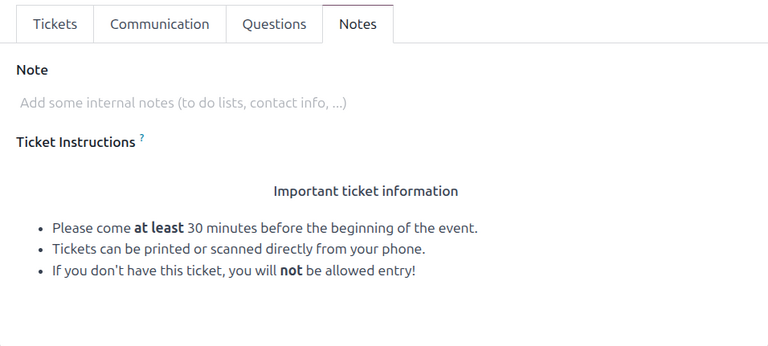
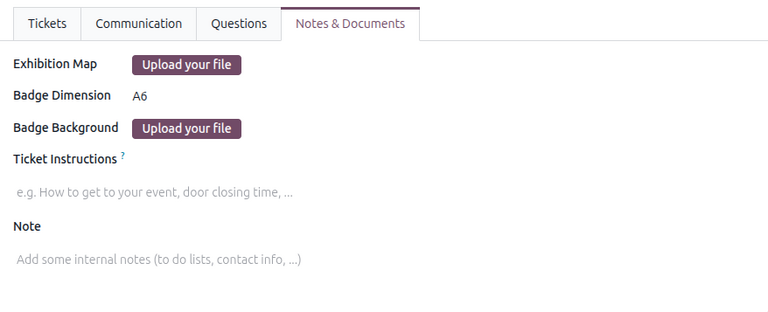
[IMP] Events: Update Create events page 19.0
X-original-commit: eda678af10adbab454cf75f3a86a5a1a9b6bd0a7

diff --git a/content/applications/marketing/events/event_setup/create_events.rst b/content/applications/marketing/events/event_setup/create_events.rst
@@ -25,18 +25,18 @@ Each event card displays the name of the event, its scheduled date, location, nu
 manager.
 
 The default stages in the :guilabel:`Kanban` view are :guilabel:`New`, :guilabel:`Booked`,
-:guilabel:`Announced`, :guilabel:`Ended`, and :guilabel:`Cancelled`. The cards can be
-dragged-and-dropped into any stage in the pipeline.
+:guilabel:`Announced`, and :guilabel:`Ended`. The cards can be dragged and dropped into any stage in
+the pipeline.
 
 .. note::
-   The :guilabel:`Ended` and :guilabel:`Cancelled` stages are folded by default and located to the
-   right of the other stages.
+   The :guilabel:`Ended` stage is folded by default and located to the right of the other stages.
 
 .. image:: create_events/kanban-dashboard.png
    :alt: Overview of Events dashboard with the Kanban view in Odoo Events.
 
 To add a new stage, click the :icon:`fa-plus` :guilabel:`Add Stage` button on the right, enter a
-name for the stage, then click :guilabel:`Add`.
+name for the stage, then click :icon:`fa-check` :guilabel:`(Add)` to add the stage or
+:icon:`fa-times` :guilabel:`(Remove)` to cancel.
 
 .. _events/event-form:
 
@@ -54,7 +54,7 @@ dashboard to open up a new event form.
 At the top of the event form are a series of smart buttons related to various event metrics. These
 auto-populate with data once attendees begin to register, when booths and sponsors sign on for the
 event, when the event takes place, and so on. These smart buttons can be clicked to navigate to the
-event's related pages to modify any details and/or perform any desired actions.
+event's related pages to modify any details and perform any desired actions.
 
 Beneath the smart buttons is the event form, which contains various fields and clickable tabs to
 configure the necessary details of the event.
@@ -98,18 +98,9 @@ fields:
   <../../../websites/website/configuration/multi_website>` documentation.
 - :guilabel:`Venue`: The event venue location. This field pulls information from the **Contacts**
   application. Alternatively, the information can be entered manually.
-- :guilabel:`Exhibition Map`: The image of the event venue map. Click the :guilabel:`Upload your
-  file` button to upload an image of the event venue map.
 
 To limit the number of registrations for the event, check the :guilabel:`Limit Registrations` and
 enter the maximum number of attendees allowed in the resulting field.
-
-Optionally, to create event badges for attendees, fill in the following fields:
-
-- :guilabel:`Badge Dimension`: The desired paper format dimension for the badges. The options are
-  :guilabel:`A4 foldable`, :guilabel:`A6`, or :guilabel:`4 per sheet`.
-- :guilabel:`Badge Background`: The custom background image for the badges. Click the
-  :guilabel:`Upload your file` button to upload an image.
 
 Additional event configurations
 ===============================
@@ -169,7 +160,7 @@ deleted.
    :icon:`oi-settings-adjust` :guilabel:`(additional options)` drop-down menu, located to the
    far-right of the column titles.
 
-   Then, tick the checkbox beside :guilabel:`Description` from the resulting drop-down menu.
+   Then, select the checkbox beside :guilabel:`Description` from the resulting drop-down menu.
 
    When added, the option to add brief descriptions for each event ticket appears, which can be used
    to inform attendees of any perks or amenities that may coincide with specific ticket purchases.
@@ -192,8 +183,8 @@ can be scheduled to be sent at specific intervals leading up to and following th
    up to the event to remind the recipient of the upcoming event.
 
 To add a communication in the :guilabel:`Communication` tab, click :guilabel:`Add a line`. Then,
-select the desired type of communication from the first drop-down menu on the :guilabel:`Template`
-field. The options are: :guilabel:`Mail`, :guilabel:`SMS`, :guilabel:`Social Post`, or
+select the desired type of communication from the first drop-down menu in the :guilabel:`Template`
+column. The options are: :guilabel:`Mail`, :guilabel:`SMS`, :guilabel:`Social Post`, or
 :guilabel:`WhatsApp`.
 
 .. important::
@@ -211,14 +202,19 @@ letting Odoo know when the communication should be sent. The :guilabel:`Unit` op
 :guilabel:`Immediately`, :guilabel:`Hours`, :guilabel:`Days`, :guilabel:`Weeks`, and
 :guilabel:`Months`.
 
-Then, select an option from the :guilabel:`Trigger` drop-down menu. The options are:
-:guilabel:`After each registration`, :guilabel:`Before the event`, and :guilabel:`After the event`.
+Then, select one of the following options from the :guilabel:`Trigger` drop-down menu:
 
-The :guilabel:`Sent` column populates with the number of sent communications. Next to the number are
-different icons that appear, depending on the status of that particular communication. The *Running*
-status is represented by a :icon:`fa-cogs` :guilabel:`(three gears)` icon. The *Sent* status is
-represented by a :icon:`fa-check` :guilabel:`(checkmark)` icon. And, the *Scheduled* status is
-represented by an :icon:`fa-hourglass-half` :guilabel:`(hourglass)` icon.
+- :guilabel:`After each registration`
+- :guilabel:`Before the event starts`
+- :guilabel:`After the event started`
+- :guilabel:`After the event ended`
+- :guilabel:`Before the event ends`
+
+The :guilabel:`(#) Sent` column populates with the number of sent communications. Next to the number
+are different icons that appear, depending on the status of that particular communication. The
+*Running* status is represented by a :icon:`fa-cogs` :guilabel:`(three gears)` icon. The *Sent*
+status is represented by a :icon:`fa-check` :guilabel:`(checkmark)` icon. Finally, the *Scheduled*
+status is represented by an :icon:`fa-hourglass-half` :guilabel:`(hourglass)` icon.
 
 Any number of communications can be added in the :guilabel:`Communication` tab of an event form.
 
@@ -238,48 +234,38 @@ Any number of communications can be added in the :guilabel:`Communication` tab o
 
    To view and manage all email templates, activate :ref:`developer-mode` and navigate to
    :menuselection:`Settings --> Technical --> Email: Email Templates`. Modify with caution as email
-   templates effect all communications where the template is used.
+   templates affect all communications where the template is used.
 
 .. _events/event-questions:
 
 Questions tab
 -------------
 
-In the :guilabel:`Questions` tab of an event form, users can create brief questionnaires for
-registrants to interact with, and respond to, after they register for the event.
-
-These questions can be focused on gathering basic information about the attendee, learning about
-their preferences, expectations, and other things of that nature. This information can also be used
-to create more detailed reporting metrics, in addition to being utilized to create specific lead
-generation rules.
+In the :guilabel:`Questions` tab of an event form, users can create questionnaires to gather
+information from attendees when registering for the event.
 
 .. image:: create_events/questions-tab.png
    :alt: Typical questions tab on an event form in the Odoo Events application.
 
 .. note::
    By default, Odoo provides three questions in the :guilabel:`Questions` tab for every event form.
-   The default questions require one or more registrants to provide their :guilabel:`Name`,
-   :guilabel:`Email`, and an optional :guilabel:`Phone` number as well.
+   The default questions require registrants to provide their :guilabel:`Name`, :guilabel:`Email`,
+   and an optional :guilabel:`Phone` number.
 
    The information gathered from the :guilabel:`Questions` tab can be found on the
    :guilabel:`Attendees` dashboard, accessible via the :icon:`fa-users` :guilabel:`Attendees` smart
    button. Odoo populates individual records that contain basic information about the registrants,
    as well as their preferences.
 
-To add a question in the :guilabel:`Questions` tab, click :guilabel:`Add a line`. Doing so reveals a
-:guilabel:`Create Question` pop-up window. From here, users can create and configure their question.
+To add a question in the :guilabel:`Questions` tab, click :guilabel:`Add a line`. Doing so reveals
+an *Add: Question* pop-up window. From here, users can select previously configured questions or
+click :guilabel:`New` to create a new one. Doing so opens a new *Create Question* pop-up window.
 
 .. image:: create_events/create-question-popup.png
    :alt: The Create Question pop-up window that appears in the Odoo Events application.
 
-First, enter the question in the field at the top of the form. Then, decide if the question should
-require a :guilabel:`Mandatory Answer` and/or if Odoo should :guilabel:`Ask once per order`, by
-ticking their respective boxes, if desired.
-
-If the :guilabel:`Ask once per order` checkbox is ticked, the question will only be asked once, and
-its value is applied to every attendee in the order (if multiple tickets are purchased at once). If
-the checkbox is **not** ticked for this setting, Odoo presents the question for every attendee that
-is connected to that registration.
+First, enter the question in the field at the top of the form. Then, specify if the question
+requires a :guilabel:`Mandatory Answer`.
 
 Next, select a :guilabel:`Question Type` option:
 
@@ -293,47 +279,56 @@ Next, select a :guilabel:`Question Type` option:
 - :guilabel:`Company`: Provides registrants with a field for them to enter a company they are
   associated with.
 
-Once all the desired configurations have been entered, either click :guilabel:`Save & Close` to save
-the question, and return to the :guilabel:`Questions` tab on the event form, or click
-:guilabel:`Save & New` to save the question and immediately create a new question on a new
-:guilabel:`Create Question` pop-up window.
+Additionally, select one or more of the following options to configure the question's visibility and
+extendability:
 
-As questions are added to the :guilabel:`Questions` tab, the informative columns showcase the
-configurations of each question.
+- :guilabel:`Ask once per order`: Ask this question only once for each registration, applying the
+  answer to every attendee in the order (if multiple tickets are purchased at once).
+- :guilabel:`Default question`: Automatically add this question for all new events.
+- :guilabel:`Is Reusable`: Allow this question to be reusable for all new events. If
+  :guilabel:`Default question` is selected, this option is automatically enabled.
 
-The informative columns are the following:
+If :guilabel:`Selection` was chosen as the :guilabel:`Question Type`, an *Answers* tab appears. Add
+any answers to the question under this tab by clicking :guilabel:`Add a line`.
 
-- :guilabel:`Title`
-- :guilabel:`Mandatory`
-- :guilabel:`Once per Order`
-- :guilabel:`Type`
-- :guilabel:`Answers` (if applicable)
+Once all the desired configurations have been entered, click :guilabel:`Save & Close` to save the
+question and return to the :guilabel:`Questions` tab on the event form. Or, click :guilabel:`Save &
+New` to save the question and configure another. To cancel, click :guilabel:`Discard`.
 
-For :guilabel:`Selection` and :guilabel:`Text Input` types, a :icon:`fa-bar-chart` :guilabel:`Stats`
-button appears on the right side of the question line. When clicked, Odoo reveals a separate page,
-showcasing the response metrics to that specific question.
+Users can add as many questions in the :guilabel:`Questions` tab as needed.
 
-To delete any question from the :guilabel:`Questions` tab, click the :icon:`fa-trash-o`
-:guilabel:`(trash can)` icon on the corresponding question line.
-
-Any number of questions can be added in the :guilabel:`Questions` tab of an event form.
+.. tip::
+   For :guilabel:`Selection` and :guilabel:`Text Input` types, a :icon:`fa-bar-chart`
+   :guilabel:`Stats` button appears on the right side of the question line. When clicked, Odoo
+   reveals a separate page, showcasing the response metrics to that specific question.
 
 .. _events/event-notes:
 
-Notes tab
----------
+Notes & Documents tab
+---------------------
 
-In the :guilabel:`Notes` tab of an event form, users can leave detailed internal notes and/or
-event-related instructions/information for attendees.
+In the :guilabel:`Notes & Documents` tab of an event form, users can leave detailed internal notes
+and event-related instructions or information for attendees.
 
 .. image:: create_events/notes-tab.png
    :alt: Typical notes tab on an event form in the Odoo Events application.
 
-In the :guilabel:`Note` field of the :guilabel:`Notes` tab, users can leave internal notes for other
-event employees, like "to-do" lists, contact information, instructions, and so on.
+For in-person events, users can specify the venue map and attendee badge details in the following
+fields:
 
-In the :guilabel:`Ticket Instructions` field of the :guilabel:`Notes` tab, users can leave specific
-instructions for people attending the event that appear on the attendees ticket.
+- :guilabel:`Exhibition Map`: Upload an image of the event venue map. Do so by clicking
+  :guilabel:`Upload your file`.
+- :guilabel:`Badge Dimension`: Select the desired paper format dimension for attendees' event
+  badges. The options are :guilabel:`A4 foldable`, :guilabel:`A6`, :guilabel:`4 per sheet`, and
+  :guilabel:`96x82mm (Badge Printer)`.
+- :guilabel:`Badge Background`: Upload an image of the custom background image for the badge. Do so
+  by clicking :guilabel:`Upload your file`.
+
+In the :guilabel:`Ticket Instructions` field, users can leave specific instructions for attendees
+and display them on attendees' tickets.
+
+In the :guilabel:`Note` field, users can leave internal notes for other event employees, such as
+"to-do" lists, contact information, instructions, and so on.
 
 Publish events
 ==============
@@ -352,7 +347,7 @@ To learn more about website design functionality and options, consult the :doc:`
 
 Once the event website is ready to be shared, click the red :guilabel:`Unpublished` toggle switch in
 the header menu, changing it to a green :guilabel:`Published` switch. At this point, the event web
-page is published and viewable/accessible by all website visitors.
+page is published and accessible by all website visitors.
 
 Send event invites
 ==================